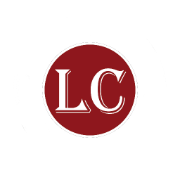
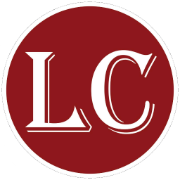
updated layout for mobile display. added section for contact info

diff --git a/index.html b/index.html
@@ -1,36 +1,71 @@
 ---
 layout: default
 ---
-<div id="hero-section" class="text-center">
-    <div class="container text-center">
-        <div class="row row-cols-2 mt-1 g-5 align-items-center">
-            <div class="col">
-                <div class="card border border-0">
-                    <div class="card-body">
-                        <h1 class="card-title display-5">Little Chef Restaurant: Where Quality Meets Heart</h1>
-                        <p class="card-text fs-5">With strength, honesty, and pride, we pledge to keep doing our best,
-                            just as we
-                            always
-                            have.<br>Join us at Little Chef, where every meal is an experience filled with quality,
-                            tradition, and heart.</p>
-                        <a href="#" class="btn btn-danger btn-lg px-4 me-sm-3"><i class="bi bi-geo-alt-fill"></i>
-                            visit
-                            us</a>
-                        <a href="#" class="btn btn-outline-danger btn-lg px-4"><i class="bi bi-telephone-fill"></i> call
-                            us</a>
-                    </div>
+<div class="container text-center">
+    <div class="row row-cols-md-1 row-cols-lg-2 mt-1 mb-5 g-5 align-items-center">
+        <div class="col">
+            <div class="card border border-0">
+                <div class="card-body">
+                    <h1 class="card-title mb-4">Little Chef Restaurant:<br>Where Quality Meets Heart</h1>
+                    <p class="card-text fs-6 text-start mb-4">With strength, honesty, and pride, we pledge to keep doing
+                        our best,
+                        just as we always have. Join us at Little Chef, where every meal is an experience filled
+                        with quality, tradition, and heart.</p>
+                    <a href="#" class="btn btn-danger btn-lg px-4 me-sm-3"><i class="bi bi-geo-alt-fill"></i>
+                        Find Us</a>
+                    <a href="#" class="btn btn-outline-danger btn-lg px-4"><i class="bi bi-telephone-fill"></i> Call
+                        Us</a>
                 </div>
             </div>
-            <div class="col">
-                <div class="container">
-                    <img src="{{ site.baseurl }}/assets/img/banner8.png" class="img-fluid border rounded-3 shadow-lg"
-                        alt="Hero Banner" loading="lazy">
-                </div>
+        </div>
+        <div class="col d-md-none d-lg-block">
+            <div class="container">
+                <img src="{{ site.baseurl }}/assets/img/banner8.png" class="img-fluid border rounded-3 shadow-lg"
+                    alt="Hero Banner" loading="lazy">
             </div>
         </div>
     </div>
 </div>
-
-<div id="hero-section" class="text-center">
-
+<hr class="border border-danger border-2 opacity-50">
+<div class="container text-center">
+    <div class="row row-cols-md-1 row-cols-lg-2 mt-1 g-5 align-items-center">
+        <div class="col d-md-none d-lg-block">
+            <div class="container">
+                <img src="{{ site.baseurl }}/assets/img/banner2.png" class="img-fluid border rounded-3 shadow-lg"
+                    alt="Hero Banner" loading="lazy">
+            </div>
+        </div>
+        <div class="col">
+            <div class="row row-cols-2">
+                <div class="col">
+                    <div class="card h-100">
+                        <div class="card-body">
+                            <h5 class="card-title">Location</h5>
+                            <a class="card-link" href="https://goo.gl/maps/79WqFn2AeFe1pQdy9">
+                                <i class="bi bi-geo-alt-fill text-danger"></i> 152 Strode Ave Coatesville, PA 19320
+                            </a>
+                        </div>
+                        <div class="card-body">
+                            <h5 class="card-title">Phone</h5>
+                            <a class="card-link" href="tel:+16103843221">
+                                <i class="bi bi-telephone-fill text-danger"></i> 610-384-3221
+                            </a>
+                        </div>
+                    </div>
+                </div>
+                <div class="col">
+                    <div class="card h-100">
+                        <div class="card-body">
+                            <h5 class="card-title">Hours</h5>
+                            <p class="card-text">
+                                Monday- Closed<br>
+                                Tuesday 6AM–3PM<br>
+                                Wednesday-Friday 6AM–9PM<br>
+                                Saturday-Sunday 6AM–3PM</p>
+                        </div>
+                    </div>
+                </div>
+            </div>
+        </div>
+    </div>
 </div>

diff --git a/_includes/nav.html b/_includes/nav.html
@@ -7,9 +7,9 @@
       </button>
       <div class="collapse navbar-collapse d-lg-flex">
         <a class="navbar-brand col-3 me-0" href="#">
-          <img src="{{ site.baseurl }}/assets/img/logo_circle.png" alt="Logo" width="32" height="32"
-            class="d-inline-block align-text-top">
-          <span class="d-none d-md-inline">Little Chef Restaurant</span>
+          <img src="{{ site.baseurl }}/assets/img/logo_inner_circle.png" alt="Brand Logo" width="32" height="32"
+            class="img-fluid d-inline-block align-text-top">
+          <span class="d-md-none d-lg-inline fs-6">Little Chef Restaurant</span>
         </a>
         <ul class="navbar-nav col-6 justify-content-lg-center">
           <li class="nav-item"><a class="nav-link" aria-current="page" href="#">About</a></li>
@@ -17,6 +17,16 @@
           <li class="nav-item"><a class="nav-link" aria-current="page" href="#">Location</a></li>
         </ul>
         <ul class="navbar-nav col-3 justify-content-lg-end">
+          <li class="nav-item">
+            <a class="nav-link" href="https://goo.gl/maps/79WqFn2AeFe1pQdy9">
+              <i class="bi bi-geo-alt-fill text-danger"></i>
+            </a>
+          </li>
+          <li class="nav-item">
+            <a class="nav-link" href="tel:+16103843221">
+              <i class="bi bi-telephone-fill text-danger"></i>
+            </a>
+          </li>
           <li class="nav-item">
             <a class="nav-link"
               href="https://www.facebook.com/Little-Chef-160076680862357/?rf=109246645805647">
@@ -26,16 +36,6 @@
           <li>
             <a class="nav-link" href="https://www.yelp.com/biz/little-chef-coatesville">
               <i class="bi bi-yelp"></i>
-            </a>
-          </li>
-          <li class="nav-item">
-            <a class="nav-link" href="https://goo.gl/maps/79WqFn2AeFe1pQdy9">
-              <i class="bi bi-geo-alt-fill text-danger"></i>
-            </a>
-          </li>
-          <li class="nav-item">
-            <a class="nav-link" href="tel:+16103843221">
-              <i class="bi bi-telephone-fill text-danger"></i>
             </a>
           </li>
         </ul>
